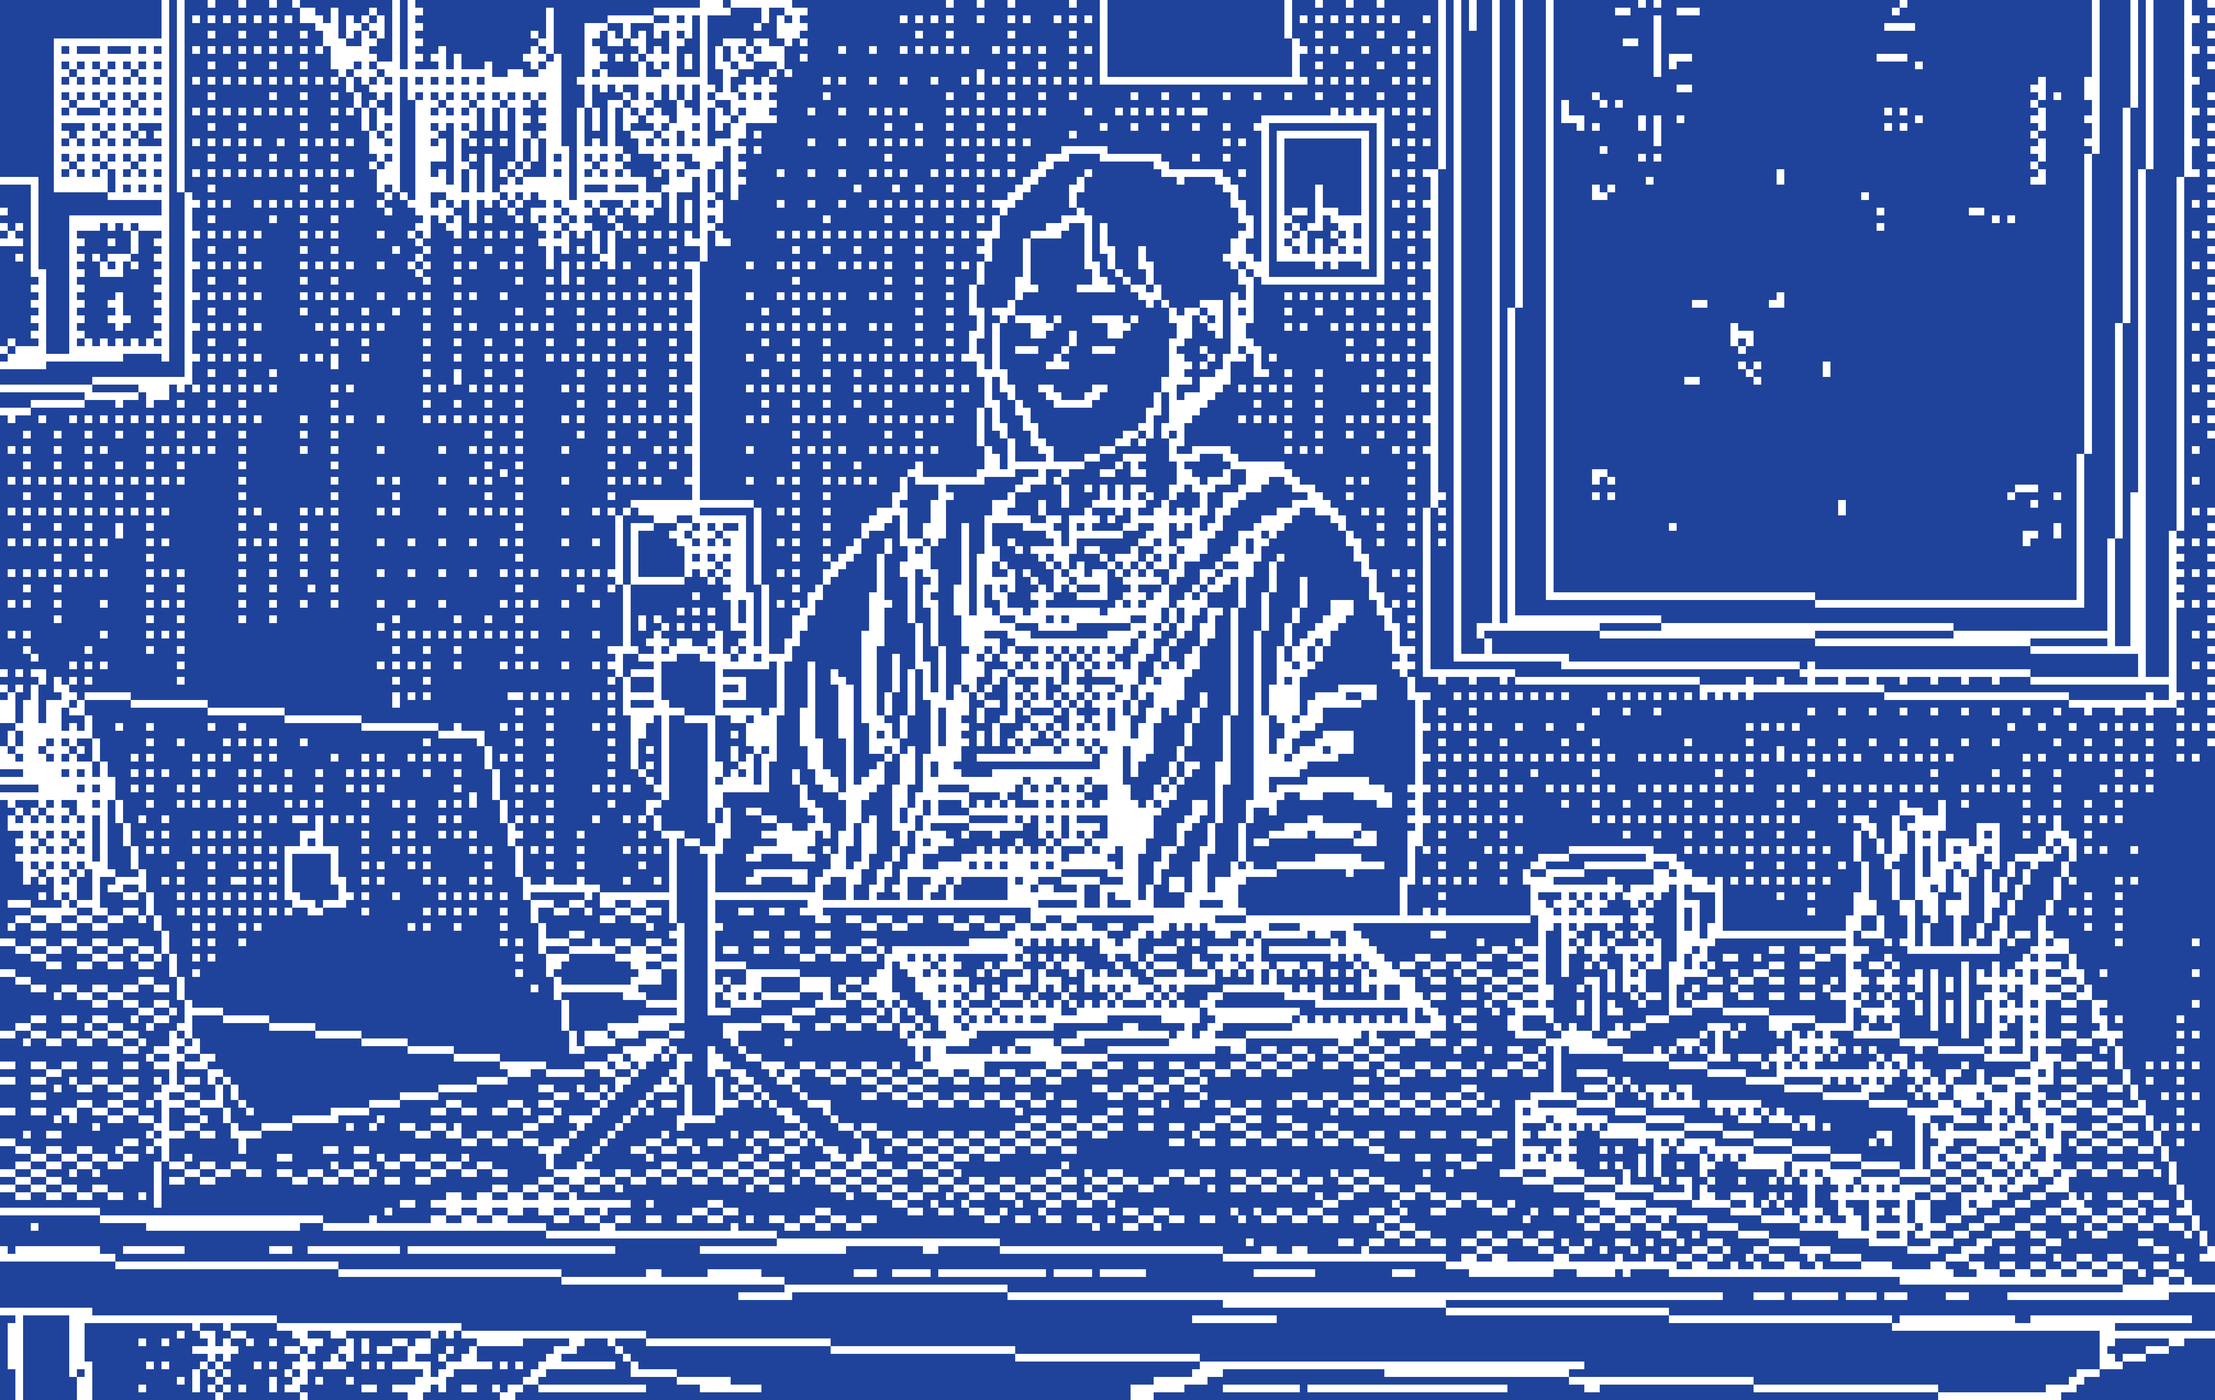
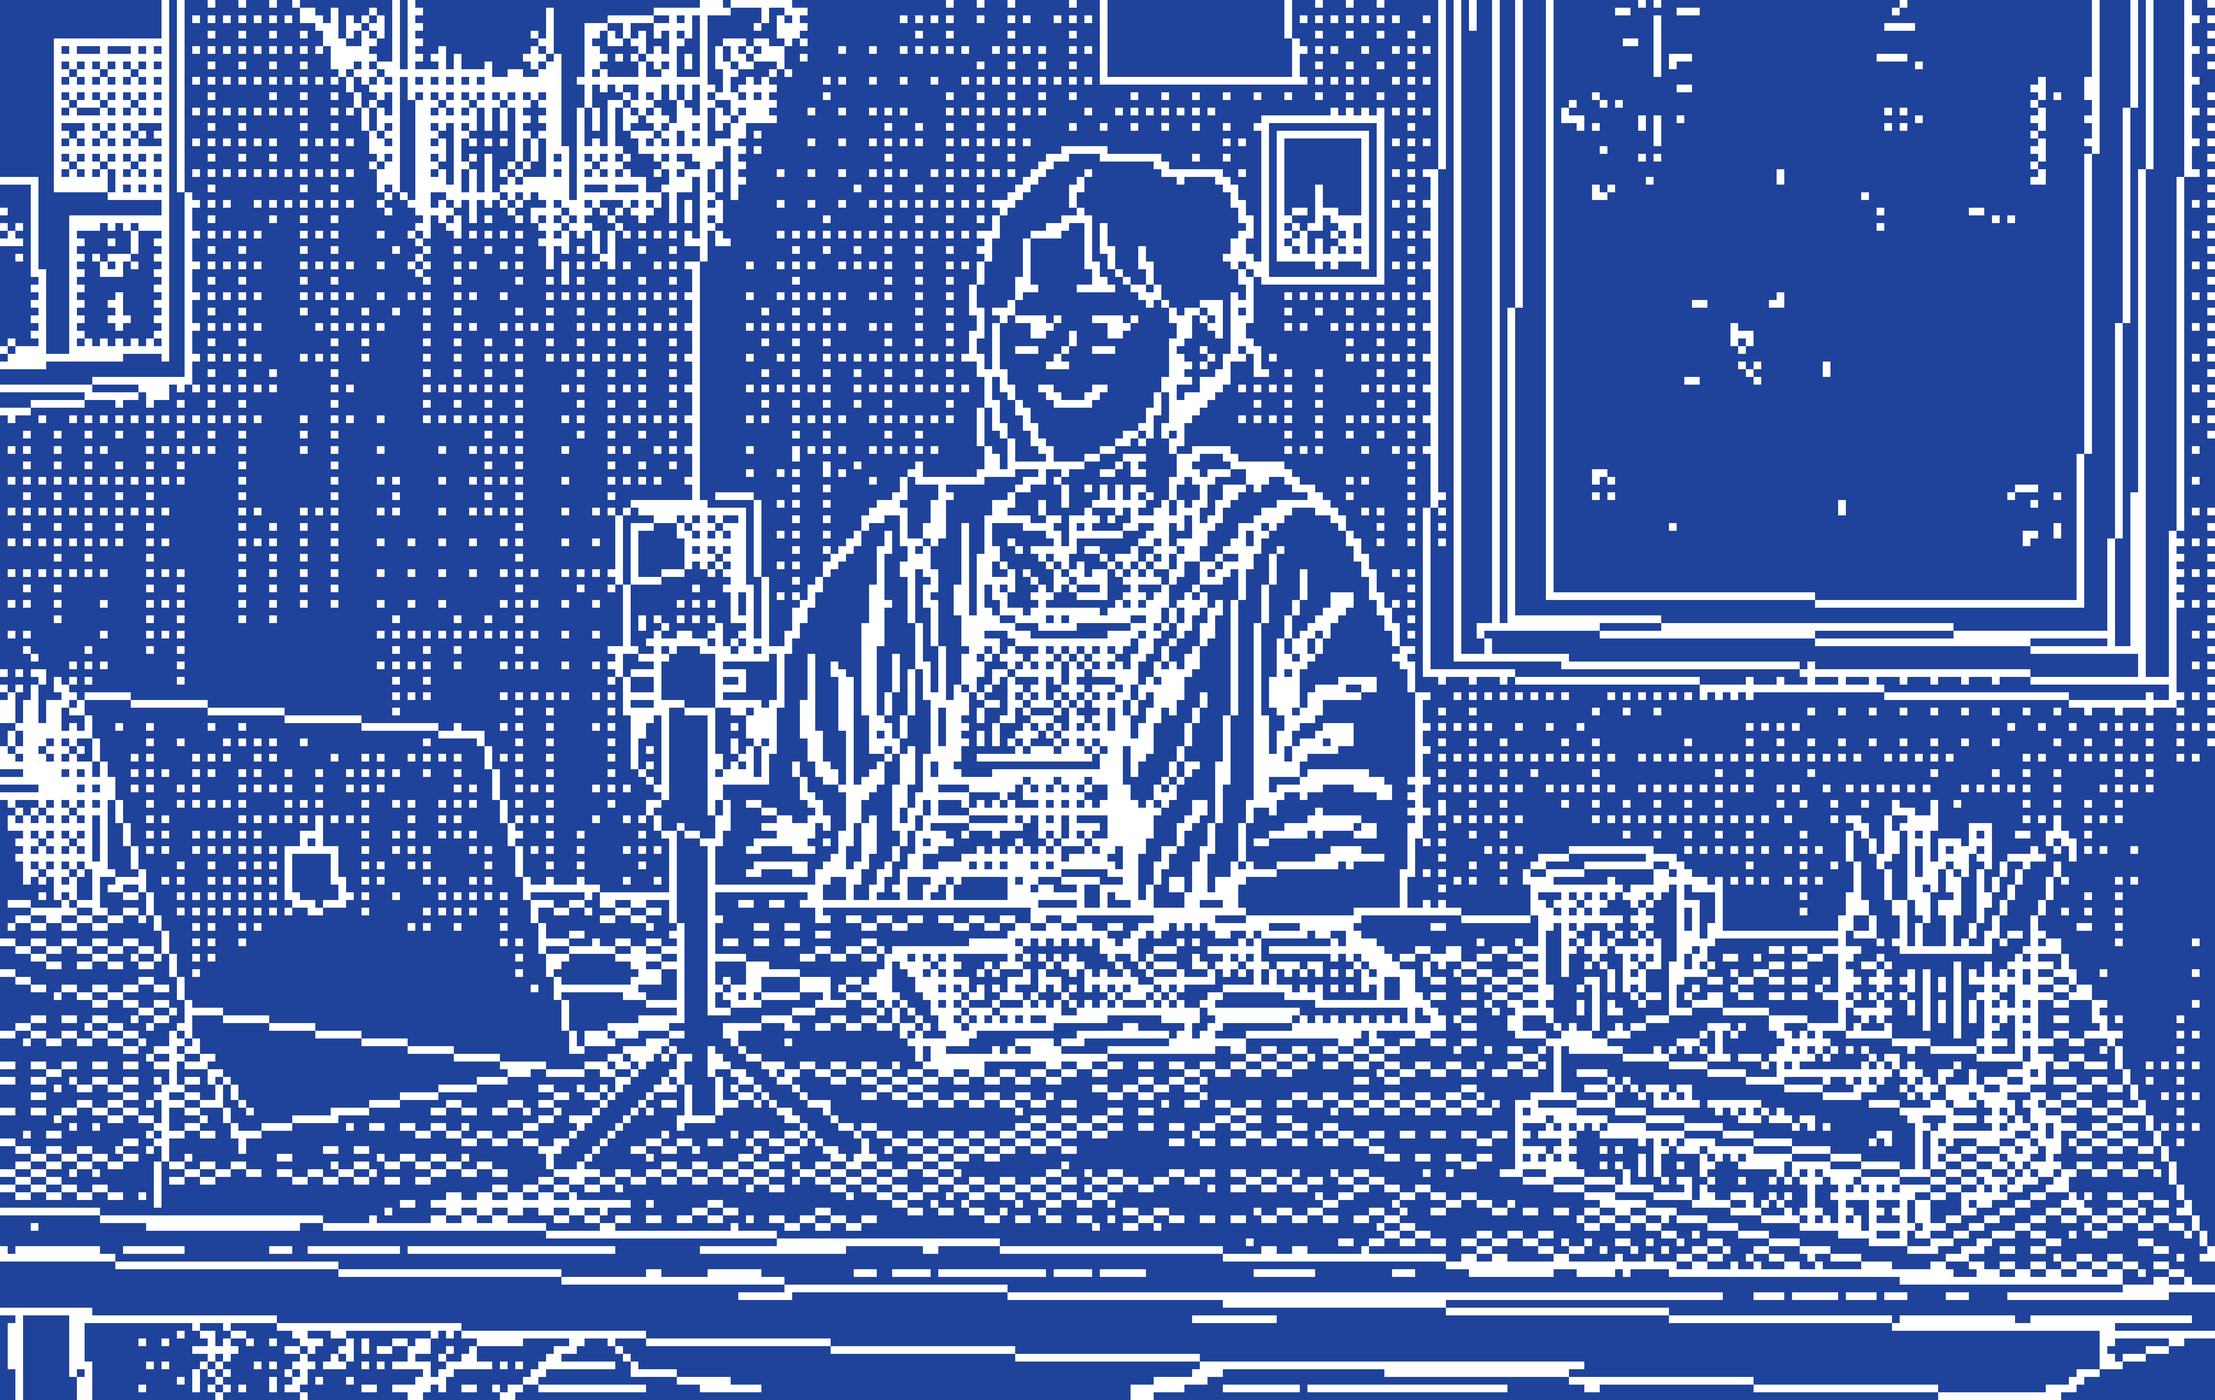
修复动效

Changed region(s): [[0.8125, 0.5588, 0.9375, 0.8071], [0.2812, 0.3104, 0.4062, 0.714], [0.5312, 0.3415, 0.6562, 0.714]]

diff --git a/behind-the-filter.html b/behind-the-filter.html
@@ -419,9 +419,9 @@
       object-fit: contain;
     }
 
-    /* Two-frame pixel motion for the event illustrations. */
+    /* Three-frame character and environmental motion for the event illustrations. */
     .art-motion {
-      --art-frame-duration: 3.2s;
+      --art-frame-duration: 5.2s;
       --art-frame-delay: 0s;
       --art-sweep-duration: 10s;
       position: relative;
@@ -431,7 +431,8 @@
       background: #03070d;
     }
     .art-motion > .art-motion-image { position: relative; z-index: 0; }
-    .art-motion > .art-motion-frame-b {
+    .art-motion > .art-motion-frame-b,
+    .art-motion > .art-motion-frame-c {
       position: absolute;
       inset: 0;
       z-index: 1;
@@ -441,8 +442,9 @@
       object-fit: contain;
       opacity: 0;
       pointer-events: none;
-      animation: art-frame-swap var(--art-frame-duration) steps(1, end) var(--art-frame-delay) infinite;
     }
+    .art-motion > .art-motion-frame-b { animation: art-frame-b var(--art-frame-duration) steps(1, end) var(--art-frame-delay) infinite; }
+    .art-motion > .art-motion-frame-c { animation: art-frame-c var(--art-frame-duration) steps(1, end) var(--art-frame-delay) infinite; }
     .art-motion::before,
     .art-motion::after {
       content: "";
@@ -469,36 +471,43 @@
       animation: art-signal-sweep var(--art-sweep-duration) ease-in-out infinite;
     }
     .art-motion--signal {
-      --art-frame-duration: 3.2s;
-      --art-frame-delay: -.8s;
+      --art-frame-duration: 5.4s;
+      --art-frame-delay: -.9s;
       --art-sweep-duration: 9s;
       animation: art-signal-breathe 9s steps(12, end) infinite;
     }
     .art-motion--glitch {
-      --art-frame-duration: 1.8s;
-      --art-frame-delay: -.35s;
+      --art-frame-duration: 4s;
+      --art-frame-delay: -.6s;
       --art-sweep-duration: 11s;
     }
-    .art-motion--glitch > .art-motion-image:not(.art-motion-frame-b) { animation: art-pixel-jitter 10s steps(1, end) infinite; }
+    .art-motion--glitch > .art-motion-image:not(.art-motion-frame-b):not(.art-motion-frame-c) { animation: art-pixel-jitter 10s steps(1, end) infinite; }
     .art-motion--archive {
-      --art-frame-duration: 3.8s;
-      --art-frame-delay: -1.3s;
+      --art-frame-duration: 5.2s;
+      --art-frame-delay: -1.1s;
       --art-sweep-duration: 12s;
     }
     .art-motion--archive::after { opacity: 0; animation: none; }
     .art-motion--outcome {
-      --art-frame-duration: 2.6s;
+      --art-frame-duration: 5.2s;
       --art-frame-delay: 480ms;
       --art-sweep-duration: 10s;
       animation: art-outcome-reveal 480ms steps(6, end) both;
     }
+    .art-motion--ambient { --art-frame-duration: 6s; }
+    .art-motion--interface { --art-frame-duration: 2.8s; }
+    .art-motion--breath { --art-frame-duration: 5.2s; }
 
     @keyframes art-scan-drift {
       to { background-position: 0 12px; }
     }
-    @keyframes art-frame-swap {
-      0%, 24% { opacity: 1; }
-      25%, 100% { opacity: 0; }
+    @keyframes art-frame-b {
+      0%, 19%, 40%, 59%, 80%, 100% { opacity: 0; }
+      20%, 39%, 60%, 79% { opacity: 1; }
+    }
+    @keyframes art-frame-c {
+      0%, 39%, 60%, 100% { opacity: 0; }
+      40%, 59% { opacity: 1; }
     }
     @keyframes art-signal-sweep {
       0%, 100% { opacity: 0; transform: translateY(0); }
@@ -885,9 +894,11 @@
     .analysis-frame { position: relative; aspect-ratio: 144 / 91; overflow: hidden; border: 1px solid #566270; background-color: #070b10; }
     .analysis-frame-image { display: block; width: 100%; height: 100%; object-fit: contain; background: #030507; }
     .analysis-frame.source-frame .analysis-frame-image,
-    .analysis-frame.source-frame .art-motion-frame-b { filter: saturate(.82) brightness(.92); }
+    .analysis-frame.source-frame .art-motion-frame-b,
+    .analysis-frame.source-frame .art-motion-frame-c { filter: saturate(.82) brightness(.92); }
     .analysis-frame.viral-frame .analysis-frame-image,
-    .analysis-frame.viral-frame .art-motion-frame-b { filter: saturate(.58) contrast(1.12); }
+    .analysis-frame.viral-frame .art-motion-frame-b,
+    .analysis-frame.viral-frame .art-motion-frame-c { filter: saturate(.58) contrast(1.12); }
     .analysis-frame span { position: absolute; left: 8px; bottom: 8px; z-index: 4; padding: 4px 6px; color: white; background: #020407d9; font-size: 10px; }
     .analysis-findings { display: grid; grid-template-columns: repeat(3, minmax(0, 1fr)); gap: 8px; margin: 12px 0; }
     .analysis-finding { padding: 10px; border-top: 2px solid var(--yellow); color: #c6ced8; background: #0d131c; line-height: 1.45; }
@@ -1179,7 +1190,8 @@
         animation: none !important;
         transform: none !important;
       }
-      .art-motion > .art-motion-frame-b {
+      .art-motion > .art-motion-frame-b,
+      .art-motion > .art-motion-frame-c {
         display: none !important;
         animation: none !important;
       }
@@ -1265,6 +1277,12 @@
       livestream: 'materials/images/事件插图/直播-frame-b.PNG',
       manipulated: 'materials/images/事件插图/被换脸-frame-b.PNG'
     });
+    const EVENT_ART_FRAME_C = Object.freeze({
+      opening: 'materials/images/事件插图/开头-frame-c.PNG',
+      campusEvent: 'materials/images/事件插图/毕业-frame-c.PNG',
+      livestream: 'materials/images/事件插图/直播-frame-c.PNG',
+      manipulated: 'materials/images/事件插图/被换脸-frame-c.PNG'
+    });
     const ENDING_ART = Object.freeze({
       PUBLISH: 'materials/images/事件插图/结局一.PNG',
       VERIFY_FURTHER: 'materials/images/事件插图/结局二.PNG',
@@ -1274,6 +1292,16 @@
       PUBLISH: 'materials/images/事件插图/结局一-frame-b.PNG',
       VERIFY_FURTHER: 'materials/images/事件插图/结局二-frame-b.PNG',
       FLAG_MANIPULATED: 'materials/images/事件插图/结局三-frame-b.PNG'
+    });
+    const ENDING_ART_FRAME_C = Object.freeze({
+      PUBLISH: 'materials/images/事件插图/结局一-frame-c.PNG',
+      VERIFY_FURTHER: 'materials/images/事件插图/结局二-frame-c.PNG',
+      FLAG_MANIPULATED: 'materials/images/事件插图/结局三-frame-c.PNG'
+    });
+    const ENDING_ART_MOTION_CLASS = Object.freeze({
+      PUBLISH: 'art-motion--ambient',
+      VERIFY_FURTHER: 'art-motion--interface',
+      FLAG_MANIPULATED: 'art-motion--breath'
     });
     const BGM_TRACKS = Object.freeze({
       glitch: 'materials/sound/bgm/glitch故障感bgm.wav',
@@ -1799,8 +1827,10 @@
 
     function copy() { return COPY[state.language]; }
 
-    function renderMotionFrame(source, classNames, loading = 'lazy') {
-      return `<img class="${escapeHTML(classNames)} art-motion-frame-b" src="${escapeHTML(source)}" alt="" aria-hidden="true" loading="${loading}" decoding="async">`;
+    function renderMotionFrames(frameB, frameC, classNames, loading = 'lazy') {
+      return `
+        <img class="${escapeHTML(classNames)} art-motion-frame-b" src="${escapeHTML(frameB)}" alt="" aria-hidden="true" loading="${loading}" decoding="async">
+        <img class="${escapeHTML(classNames)} art-motion-frame-c" src="${escapeHTML(frameC)}" alt="" aria-hidden="true" loading="${loading}" decoding="async">`;
     }
 
     function announce(message) {
@@ -1852,9 +1882,9 @@
               </div>
               <button id="ending-art-close" class="ending-art-tool" type="button" data-action="CLOSE_ENDING_ART">${icon('x')}</button>
             </header>
-            <div class="ending-art-stage art-motion art-motion--outcome">
+            <div class="ending-art-stage art-motion art-motion--outcome ${escapeHTML(ENDING_ART_MOTION_CLASS[endingArtDecision])}">
               <img class="ending-art-image art-motion-image" src="${escapeHTML(ENDING_ART[endingArtDecision])}" alt="" decoding="async" data-ending-art data-decision="${escapeHTML(endingArtDecision)}">
-              ${renderMotionFrame(ENDING_ART_FRAME_B[endingArtDecision], 'ending-art-image art-motion-image', 'eager')}
+              ${renderMotionFrames(ENDING_ART_FRAME_B[endingArtDecision], ENDING_ART_FRAME_C[endingArtDecision], 'ending-art-image art-motion-image', 'eager')}
             </div>
           </section>`;
       }
@@ -2487,7 +2517,7 @@
               <div class="player-titlebar"><span>${escapeHTML(t.p01.file)}</span><span>${escapeHTML(t.p01.staticRecord)}</span></div>
               <div class="art-motion art-motion--signal">
                 <img class="case-preview-art art-motion-image" src="${escapeHTML(EVENT_ART.opening)}" alt="${escapeHTML(t.p01.artAlt)}" decoding="async">
-                ${renderMotionFrame(EVENT_ART_FRAME_B.opening, 'case-preview-art art-motion-image', 'eager')}
+                ${renderMotionFrames(EVENT_ART_FRAME_B.opening, EVENT_ART_FRAME_C.opening, 'case-preview-art art-motion-image', 'eager')}
               </div>
               <div class="player-metadata"><span>${escapeHTML(t.p01.reconstruction)}</span><span>CASE 001</span></div>
             </div>
@@ -2550,7 +2580,7 @@
                       <span class="attachment-art-label">${escapeHTML(t.p02.artLabel)}</span>
                       <div class="art-motion art-motion--glitch">
                         <img class="attachment-art art-motion-image" src="${escapeHTML(EVENT_ART.manipulated)}" alt="${escapeHTML(t.p02.artAlt)}" loading="lazy" decoding="async">
-                        ${renderMotionFrame(EVENT_ART_FRAME_B.manipulated, 'attachment-art art-motion-image')}
+                        ${renderMotionFrames(EVENT_ART_FRAME_B.manipulated, EVENT_ART_FRAME_C.manipulated, 'attachment-art art-motion-image')}
                       </div>
                     </div>
                   </div>
@@ -2607,7 +2637,7 @@
                     <button class="feed-video" type="button" data-action="SHOW_VIDEO_NOTICE" aria-label="${escapeHTML(t.modal.videoTitle)}">
                       <span class="viral-still art-motion art-motion--glitch">
                         <img class="viral-still-image art-motion-image" src="${escapeHTML(EVENT_ART.manipulated)}" alt="" aria-hidden="true" loading="lazy" decoding="async">
-                        ${renderMotionFrame(EVENT_ART_FRAME_B.manipulated, 'viral-still-image art-motion-image')}
+                        ${renderMotionFrames(EVENT_ART_FRAME_B.manipulated, EVENT_ART_FRAME_C.manipulated, 'viral-still-image art-motion-image')}
                         <span class="media-static-badge">${icon('eye')} ${escapeHTML(t.modal.videoTitle)}</span>
                       </span>
                     </button>
@@ -2720,7 +2750,7 @@
                   <figure class="archive-event-art">
                     <div class="art-motion art-motion--archive">
                       <img class="art-motion-image" src="${escapeHTML(EVENT_ART.campusEvent)}" alt="${escapeHTML(t.p05.eventArtAlt)}" loading="lazy" decoding="async">
-                      ${renderMotionFrame(EVENT_ART_FRAME_B.campusEvent, 'art-motion-image')}
+                      ${renderMotionFrames(EVENT_ART_FRAME_B.campusEvent, EVENT_ART_FRAME_C.campusEvent, 'art-motion-image')}
                     </div>
                     <figcaption>${escapeHTML(t.p05.eventArtCaption)}</figcaption>
                   </figure>
@@ -2746,7 +2776,7 @@
                         
                         <div class="art-motion art-motion--archive">
                           <img class="archive-frame-art art-motion-image" src="${escapeHTML(EVENT_ART.livestream)}" alt="${escapeHTML(t.p05.frameArtAlt)}" loading="lazy" decoding="async">
-                          ${renderMotionFrame(EVENT_ART_FRAME_B.livestream, 'archive-frame-art art-motion-image')}
+                          ${renderMotionFrames(EVENT_ART_FRAME_B.livestream, EVENT_ART_FRAME_C.livestream, 'archive-frame-art art-motion-image')}
                         </div>
                         
                         <p>${escapeHTML(t.p05.frameBody)}</p>
@@ -2873,8 +2903,8 @@
           <h2 id="analysis-title">${escapeHTML(t.p07.analysisTitle)}</h2>
           <p>${escapeHTML(t.p07.analysisIntro)}</p>
           <div class="analysis-frames" aria-label="${escapeHTML(t.p07.analysisTitle)}">
-            <div class="analysis-frame source-frame art-motion art-motion--archive"><img class="analysis-frame-image art-motion-image" src="${escapeHTML(EVENT_ART.livestream)}" alt="${escapeHTML(t.p07.sourceFrameAlt)}" loading="lazy" decoding="async">${renderMotionFrame(EVENT_ART_FRAME_B.livestream, 'art-motion-image')}<span>${escapeHTML(t.p07.sourceFrame)}</span></div>
-            <div class="analysis-frame viral-frame art-motion art-motion--glitch"><img class="analysis-frame-image art-motion-image" src="${escapeHTML(EVENT_ART.manipulated)}" alt="${escapeHTML(t.p07.viralFrameAlt)}" loading="lazy" decoding="async">${renderMotionFrame(EVENT_ART_FRAME_B.manipulated, 'art-motion-image')}<span>${escapeHTML(t.p07.viralFrame)}</span></div>
+            <div class="analysis-frame source-frame art-motion art-motion--archive"><img class="analysis-frame-image art-motion-image" src="${escapeHTML(EVENT_ART.livestream)}" alt="${escapeHTML(t.p07.sourceFrameAlt)}" loading="lazy" decoding="async">${renderMotionFrames(EVENT_ART_FRAME_B.livestream, EVENT_ART_FRAME_C.livestream, 'art-motion-image')}<span>${escapeHTML(t.p07.sourceFrame)}</span></div>
+            <div class="analysis-frame viral-frame art-motion art-motion--glitch"><img class="analysis-frame-image art-motion-image" src="${escapeHTML(EVENT_ART.manipulated)}" alt="${escapeHTML(t.p07.viralFrameAlt)}" loading="lazy" decoding="async">${renderMotionFrames(EVENT_ART_FRAME_B.manipulated, EVENT_ART_FRAME_C.manipulated, 'art-motion-image')}<span>${escapeHTML(t.p07.viralFrame)}</span></div>
           </div>
           <div class="analysis-findings">${t.p07.findings.map(item => `<div class="analysis-finding">${escapeHTML(item)}</div>`).join('')}</div>
           <p class="evidence-warning">${escapeHTML(t.p07.supportWarning)}</p>

diff --git a/README.md b/README.md
@@ -8,7 +8,9 @@ Open [`behind-the-filter.html`](./behind-the-filter.html) directly in a browser.
 
 Current milestone: Case 001 scenes P00-P09 are playable from opening through evidence analysis, final recommendation, branch consequence, and case closure.
 
-The playable build uses interface sound effects and the event illustrations in `materials/images/事件插图/`. P01, P02, P03, P05, P07, and all three P08 outcomes pair each original PNG with a same-size `-frame-b.PNG` variant. The variants make a small number of blue/white pixel cells trade places, and CSS switches between the two frames with hard steps rather than a fade. No network requests are required, and `prefers-reduced-motion` restores a fully static presentation.
+The playable build uses interface sound effects and the event illustrations in `materials/images/事件插图/`. P01, P02, P03, P05, P07, and all three P08 outcomes combine each original PNG with same-size `-frame-b.PNG` and `-frame-c.PNG` variants. The three frames loop A-B-C-B-A with hard steps, using connected pixel regions for character breathing, posture changes, plants, curtains, and interface updates. No network requests are required, and `prefers-reduced-motion` restores a fully static presentation.
+
+Run `tools/generate-natural-motion-frames.ps1` to regenerate all Frame B and Frame C assets from the original blue/white PNGs. The script uses the original 288-by-182 art grid and does not require third-party packages.
 
 The playable HTML contains no video elements or playback controls. The legacy files in `materials/videos/` remain in the repository for archival purposes but are not referenced by the playable build.
 
